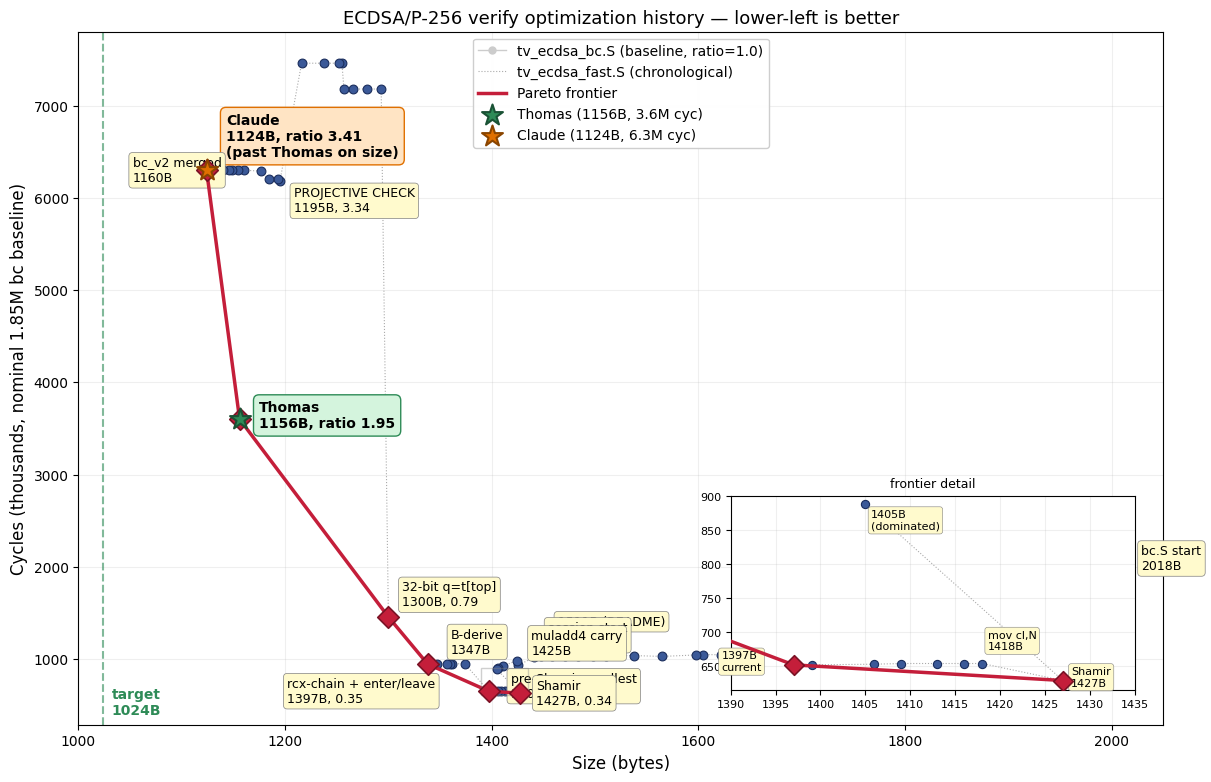
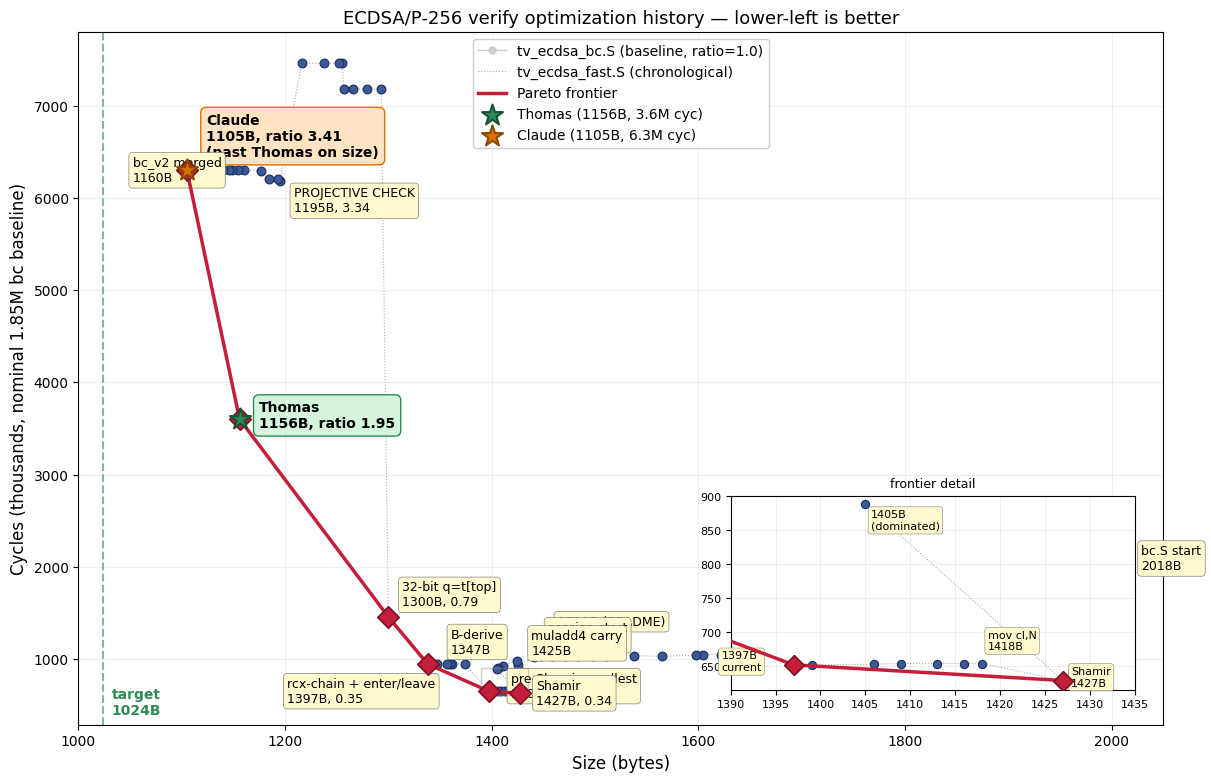
Chart: 1105B — bt-on-cN lands −19B. 51B under Thomas.
Session total: −72B (1177 → 1105).  The exponent-buffer
elimination is the single biggest structural win of the run.
81B to 1024.  Pareto leftmost is us by a wide margin.

Changed region(s): [[0.1528, 0.1228, 0.3361, 0.5217], [0.4889, 0.1535, 0.5194, 0.1841]]

diff --git a/docs/plot_history.py b/docs/plot_history.py
@@ -83,7 +83,8 @@ FAST = [
     (1146, 6300, None),   # bt32+r8
     (1140, 6300, None),   # H-check bytecode
     (1136, 6300, None),   # push/pop
-    (1124, 6300, None),   # cGX block merge — labeled via CLAUDE star
+    (1124, 6300, None),   # cGX block merge
+    (1105, 6300, None),   # bt-on-cN, no exp buffer — CLAUDE star
 ]
 
 def pareto(pts):
@@ -98,7 +99,7 @@ def pareto(pts):
 # External reference.  Faster than us (1.95 vs 3.4) but we are now
 # SMALLER (1154 < 1156).  Neither dominates — both are Pareto.
 THOMAS = (1156, 3600, "Thomas\n1156B, 1.95")
-CLAUDE = (1124, 6300, "Claude\n1124B, 3.41")  # 32B past Thomas, 100B to target
+CLAUDE = (1105, 6300, "Claude\n1105B, 3.41")  # 51B past Thomas, 81B to target
 TARGET = 1024
 
 # Frontier is computed over OUR points + Thomas: nothing of ours is
